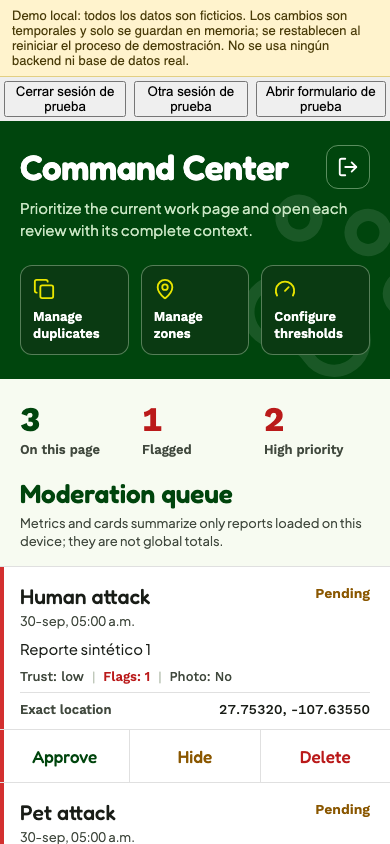
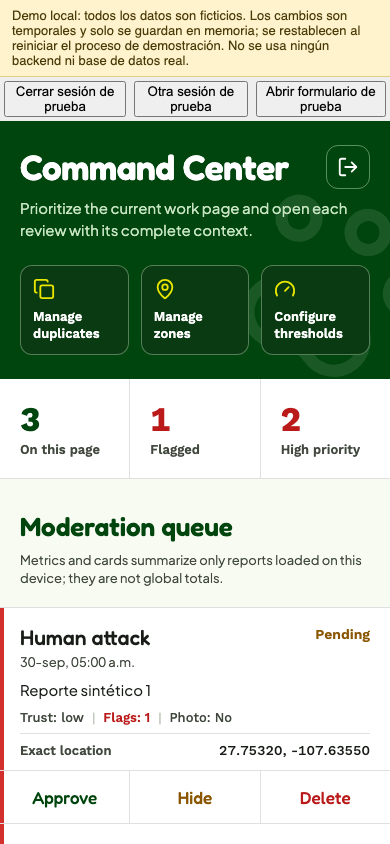
style(design): TD-134 Command Center: métricas en franja con divisores y más aire sobre la cola

diff --git a/screens/CommandCenterScreen.js b/screens/CommandCenterScreen.js
@@ -46,10 +46,10 @@ const NOTE_COMMANDS = {
 };
 
 /** Summary metric: only the value and its label (the label and number are the tile's whole content). `alert` colors a non-zero value. */
-function Metric({ label, value, alert }) {
+function Metric({ label, value, alert, last }) {
   const hot = alert && value > 0;
   return (
-    <View style={styles.metric}>
+    <View style={[styles.metric, !last && styles.metricDivider]}>
       <Text style={[styles.metricValue, hot && styles.metricValueHot]}>{value}</Text>
       <Text style={styles.metricLabel}>{label}</Text>
     </View>
@@ -177,10 +177,12 @@ export default function CommandCenterScreen({ accessToken, onOpenConfiguration, 
           ) : null}
         </View>
       </View>
-      <View style={styles.metricsRow}>
-        <Metric label={t('moderation.onPage')} value={summary.total} />
-        <Metric label={t('moderation.flagged')} value={summary.flagged} alert />
-        <Metric label={t('moderation.urgent')} value={summary.urgent} alert />
+      <View style={styles.metricsBand}>
+        <View style={styles.metricsRow}>
+          <Metric label={t('moderation.onPage')} value={summary.total} />
+          <Metric label={t('moderation.flagged')} value={summary.flagged} alert />
+          <Metric label={t('moderation.urgent')} value={summary.urgent} alert last />
+        </View>
       </View>
       <View style={styles.queueIntro}>
         <Text accessibilityRole="header" style={styles.queueTitle}>{t('moderation.title')}</Text>
@@ -282,12 +284,14 @@ const styles = StyleSheet.create({
   tools: { flexDirection: 'row', gap: spacing.md, marginTop: spacing.lg },
   tool: { flex: 1, minHeight: 84, borderRadius: radius.md, borderWidth: 1, borderColor: 'rgba(201,230,196,0.4)', backgroundColor: colors.forestField, padding: spacing.md, gap: spacing.sm, justifyContent: 'space-between' },
   toolText: { fontFamily: fontFamily.label, fontSize: 13, lineHeight: 17, color: colors.onPrimary },
-  metricsRow: { flexDirection: 'row', width: '100%', maxWidth: 960, alignSelf: 'center', paddingHorizontal: layout.margin, paddingVertical: spacing.xl, gap: spacing.lg },
-  metric: { flex: 1, gap: 2 },
+  metricsBand: { backgroundColor: colors.surface, borderBottomWidth: 1, borderBottomColor: colors.border },
+  metricsRow: { flexDirection: 'row', width: '100%', maxWidth: 960, alignSelf: 'center' },
+  metric: { flex: 1, gap: 2, paddingVertical: spacing.xl, paddingHorizontal: layout.margin },
+  metricDivider: { borderRightWidth: 1, borderRightColor: colors.border },
   metricValue: { fontFamily: fontFamily.number, fontVariant: ['tabular-nums'], fontSize: 34, lineHeight: 40, color: colors.primary },
   metricValueHot: { color: colors.danger },
   metricLabel: { fontFamily: fontFamily.label, fontSize: 13, lineHeight: 17, color: colors.inkMuted },
-  queueIntro: { marginHorizontal: layout.margin, marginBottom: spacing.lg, gap: spacing.xs },
+  queueIntro: { marginHorizontal: layout.margin, marginTop: spacing.xxxl, marginBottom: spacing.xl, gap: spacing.sm },
   queueTitle: { fontFamily: fontFamily.display, fontSize: 26, lineHeight: 32, color: colors.primary },
   pageScope: { ...type.caption, color: colors.inkMuted },
   gridRow: { gap: 1 },
